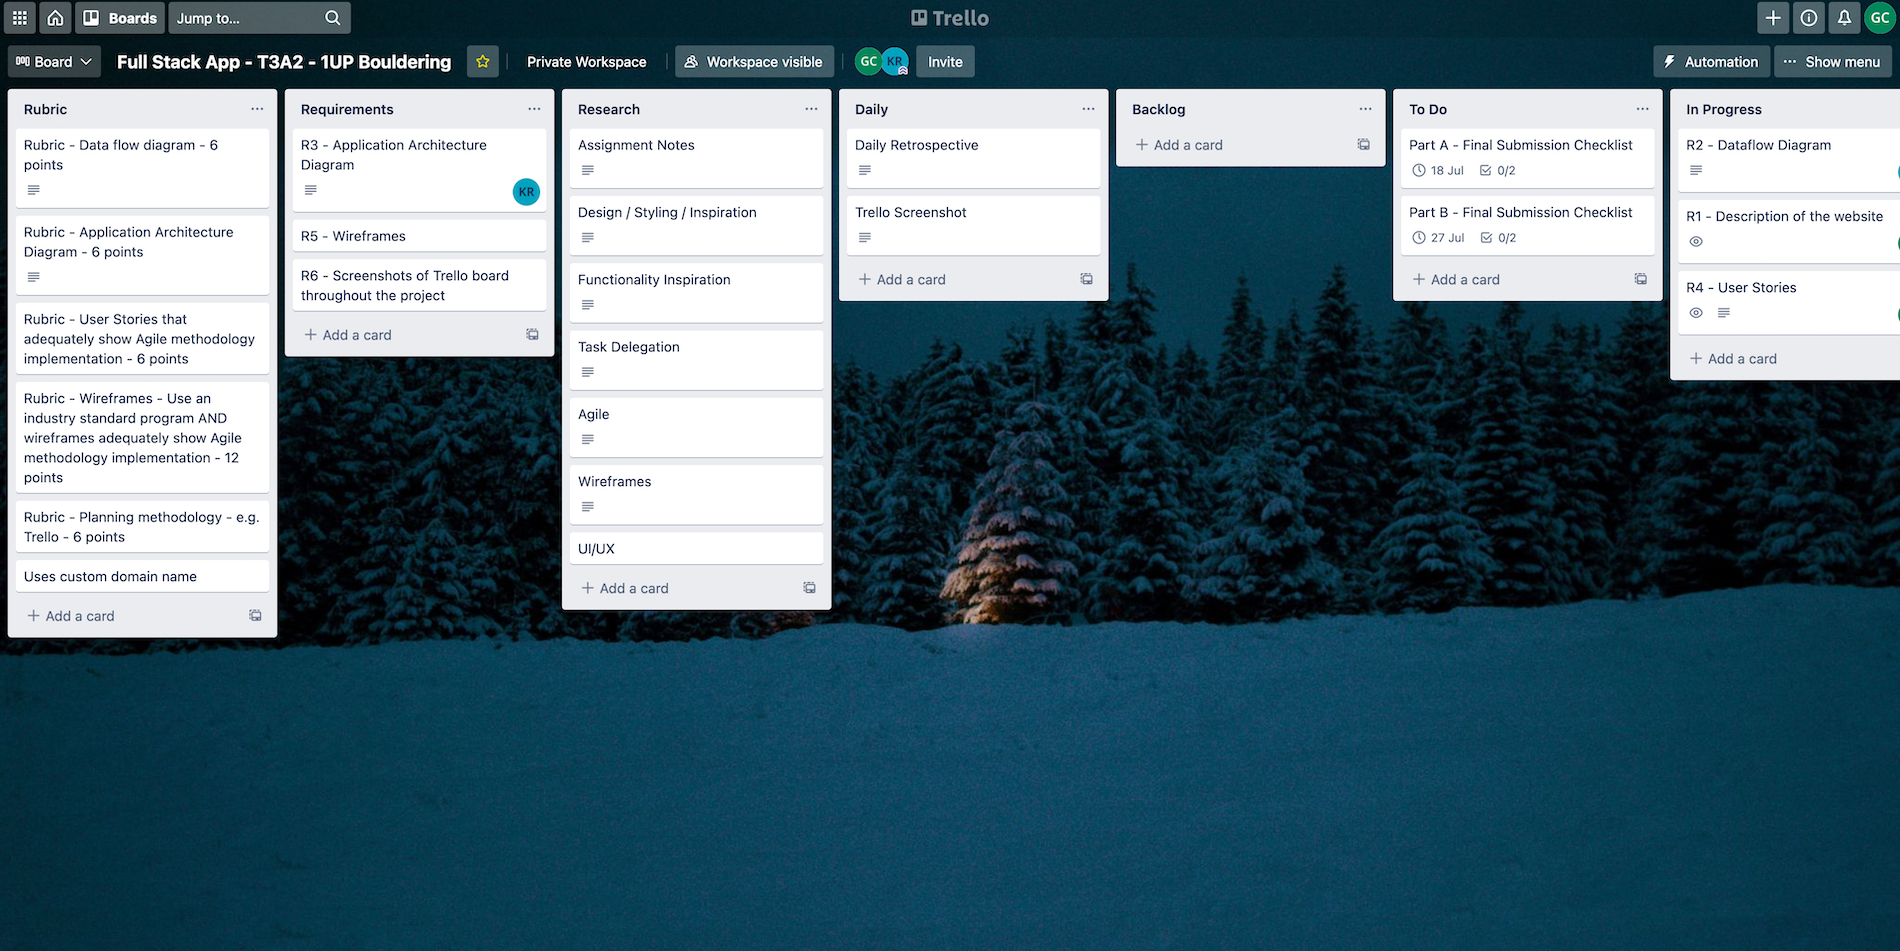
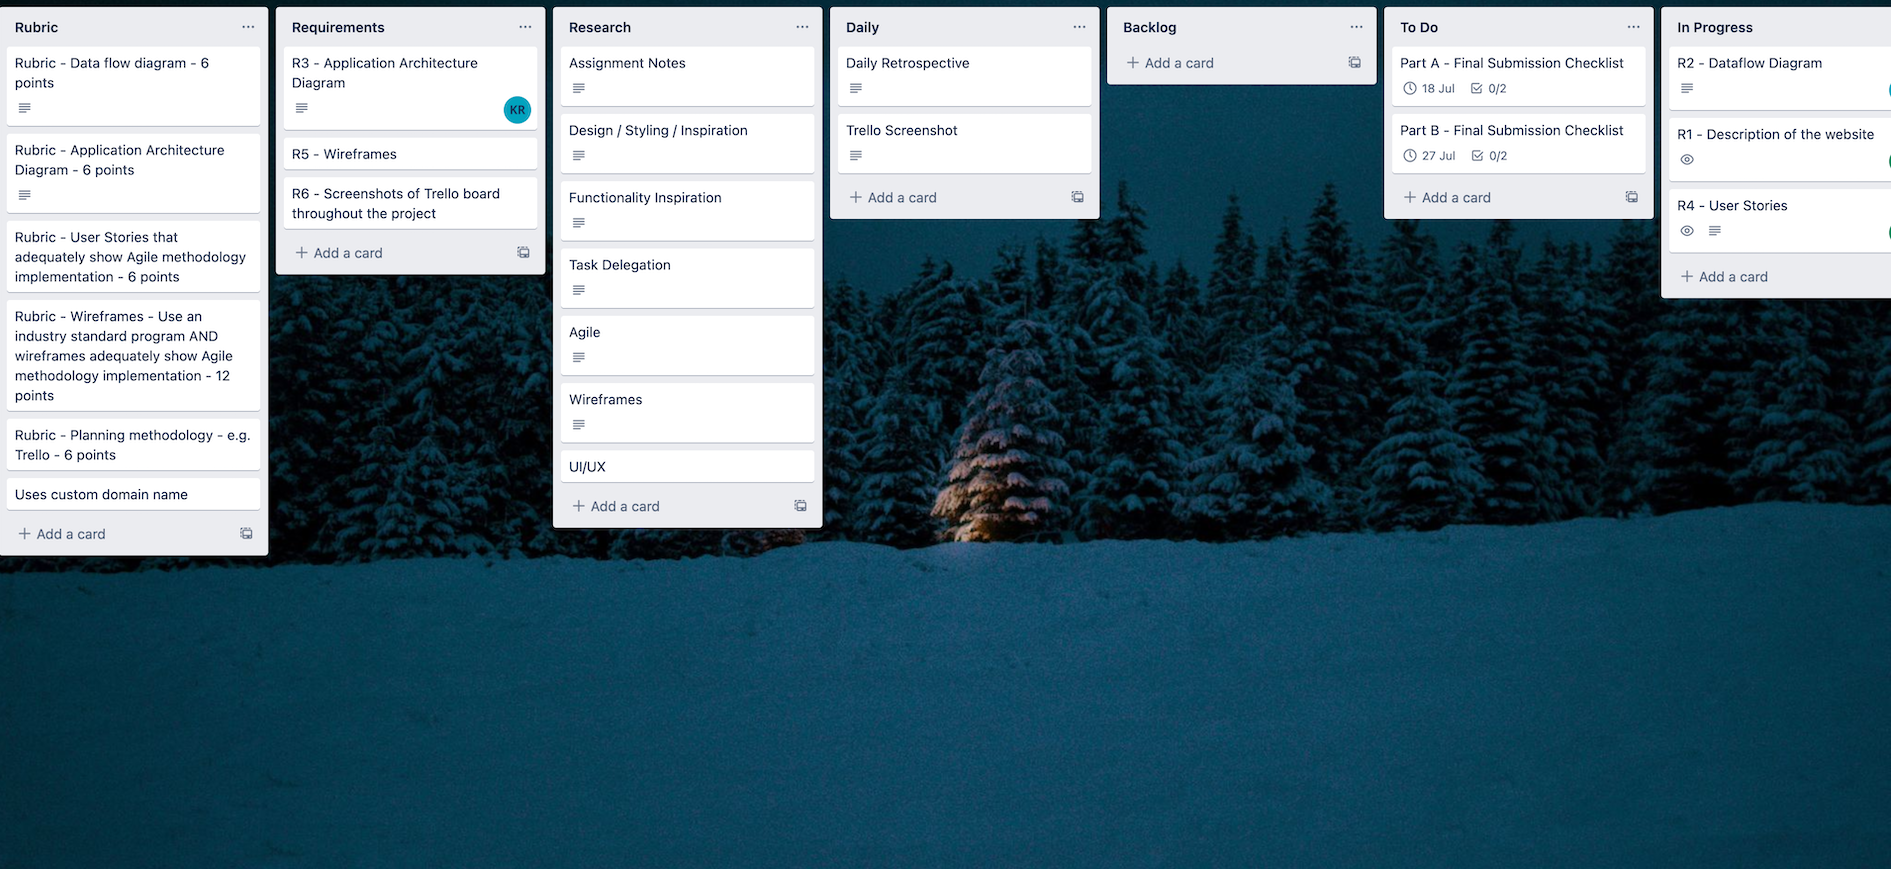
Apply consistent formatting to Trello screenshots. Add link to latest screenshot to ReadMe

diff --git a/README.md b/README.md
@@ -161,6 +161,9 @@ The target audience for this application is our client, **1UP Bouldering Gym**, 
 **13/07/21**
 ![130721](./docs/trello/06_130721.png)
 
+**15/07/21**
+![150721](./docs/trello/07_150721.png)
+
 ## Client Engagement
 
 ### Meetings
